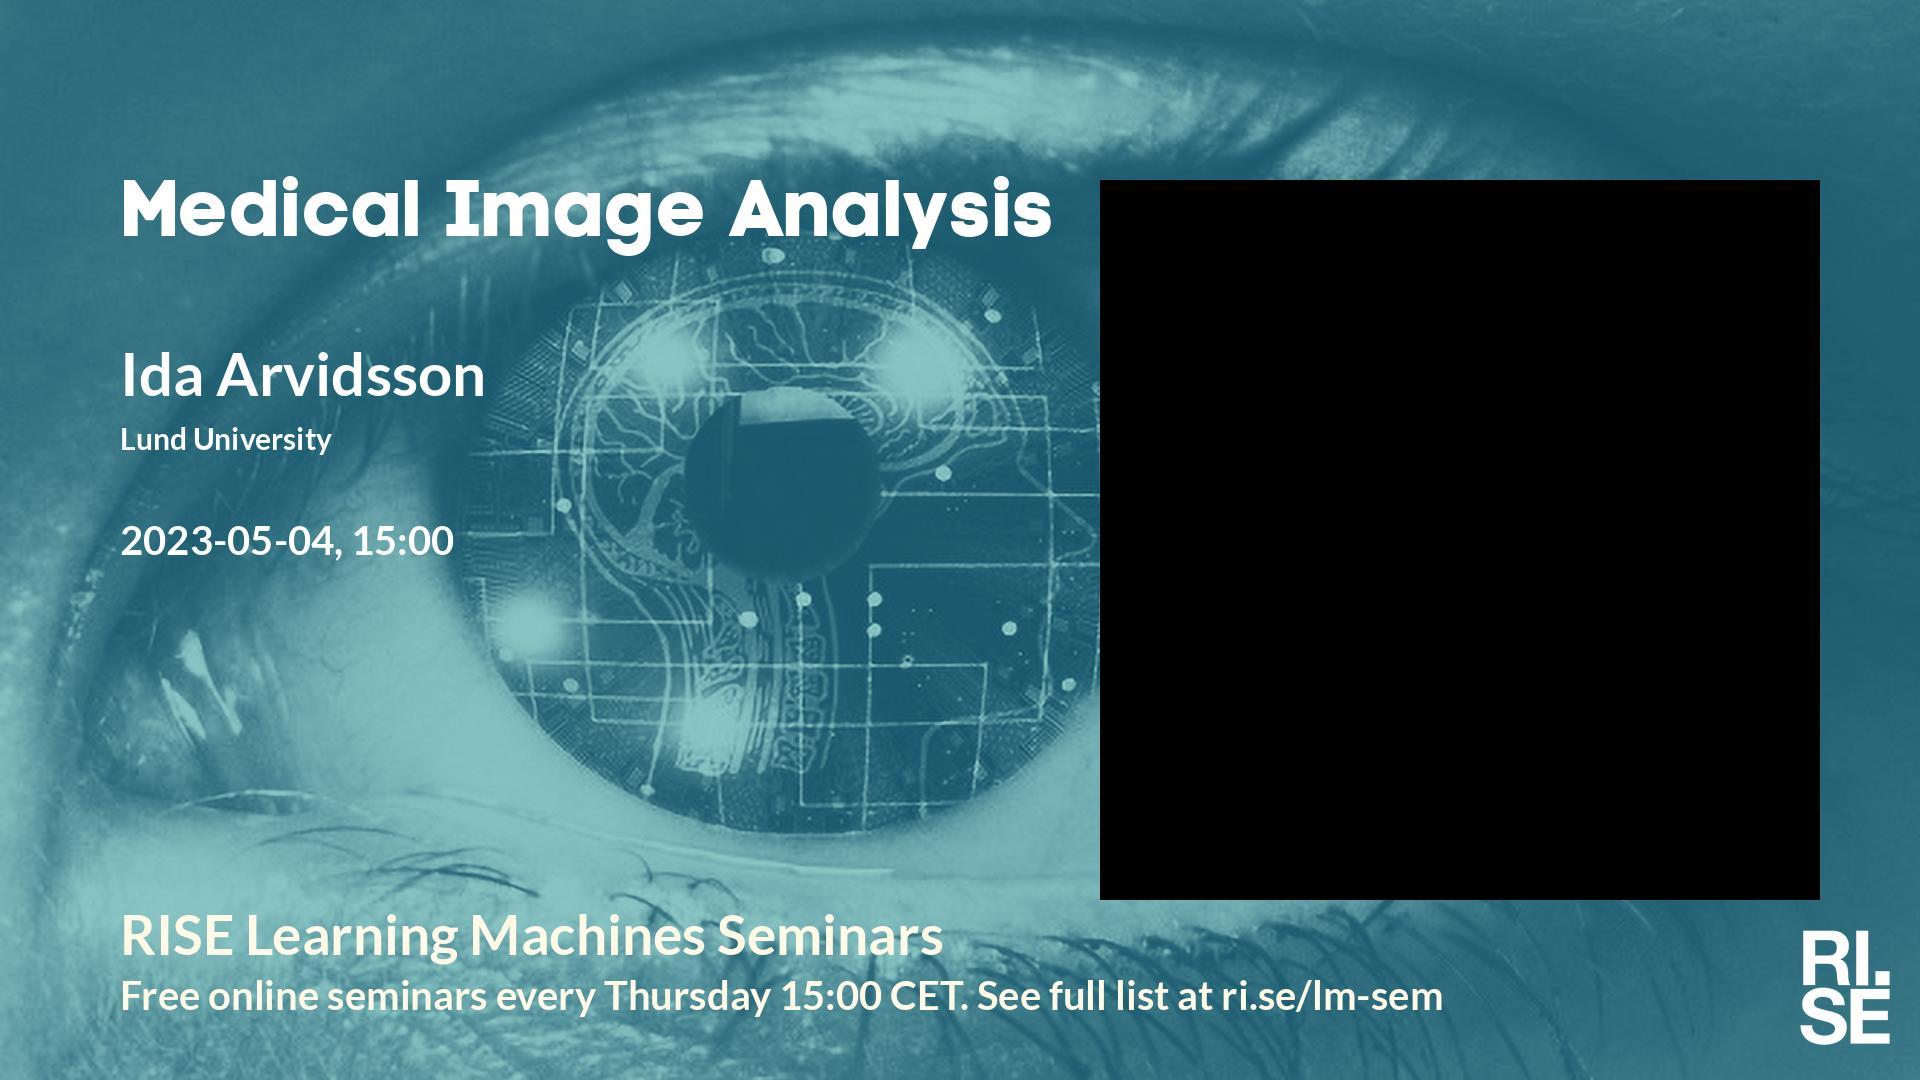
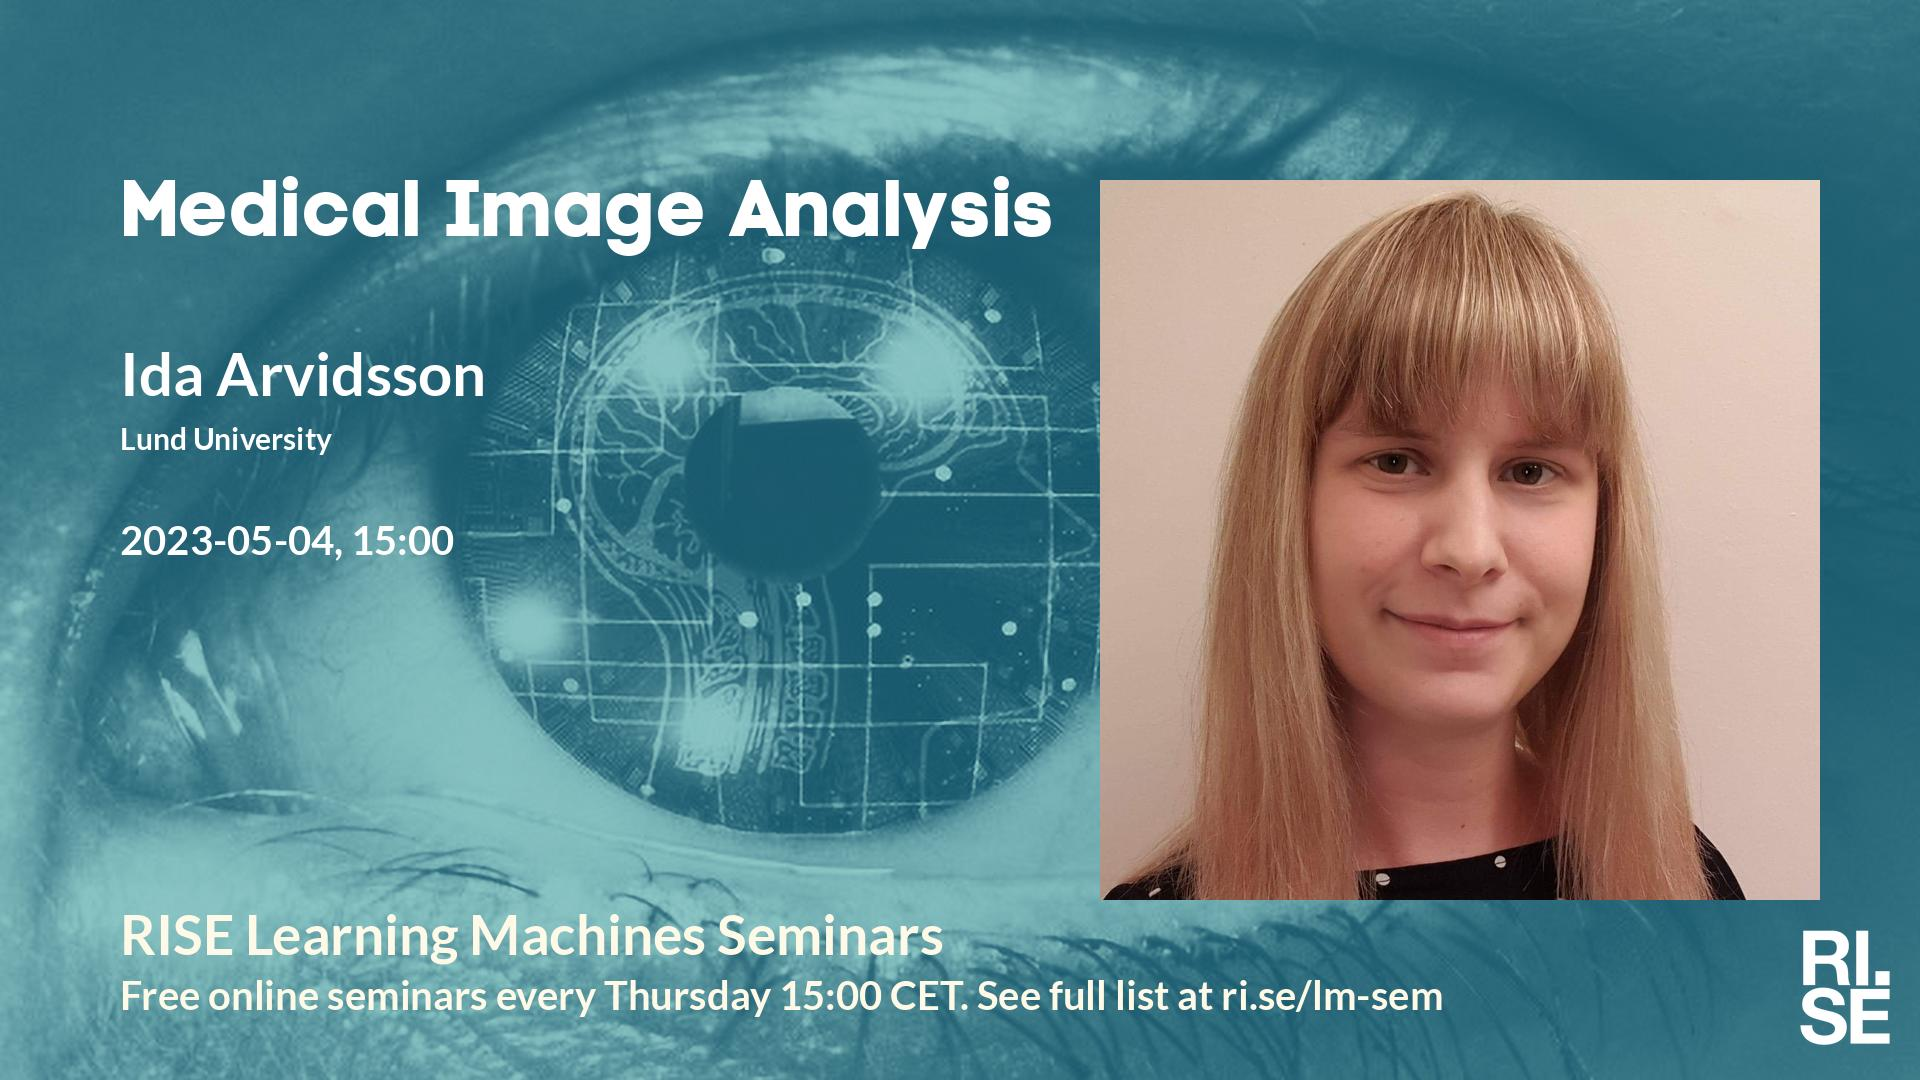
Updated plan on web site.

Changed region(s): [[0.5625, 0.1528, 0.9688, 0.8556]]

diff --git a/lm/index.md b/lm/index.md
@@ -12,7 +12,7 @@ table {border-collapse: collapse;}
 |  2023-04-13  |  [Elijah Cole, Caltech](2023-04-13.md)  |  [photo](photo-elijah-cole.jpg)  |  [social media ](social-media-elijah-cole.jpg)  |  [meeting backdrop ](meeting-backdrop-elijah-cole.jpg)  |  [youtube thumbnail ](youtube-thumbnail-elijah-cole.jpg)  |  STABP  |
 |  2023-04-20  |  [Rico Sennrich, University of Zurich](2023-04-20.md)  |  [photo](photo-rico-sennrich.jpg)  |  [social media ](social-media-rico-sennrich.jpg)  |  [meeting backdrop ](meeting-backdrop-rico-sennrich.jpg)  |  [youtube thumbnail ](youtube-thumbnail-rico-sennrich.jpg)  |  STABP  |
 |  2023-04-27  |  [Pontus Stenetorp, University College London (UCL)](2023-04-27.md)  |  [photo](photo-pontus-stenetorp.jpg)  |  [social media ](social-media-pontus-stenetorp.jpg)  |  [meeting backdrop ](meeting-backdrop-pontus-stenetorp.jpg)  |  [youtube thumbnail ](youtube-thumbnail-pontus-stenetorp.jpg)  |  STABP  |
-|  2023-05-04  |  [Ida Arvidsson, Lund University](2023-05-04.md)  |    |  [social media ](social-media-ida-arvidsson.jpg)  |  [meeting backdrop ](meeting-backdrop-ida-arvidsson.jpg)  |  [youtube thumbnail ](youtube-thumbnail-ida-arvidsson.jpg)  |  STAB~~P~~  |
+|  2023-05-04  |  [Ida Arvidsson, Lund University](2023-05-04.md)  |  [photo](photo-ida-arvidsson.jpg)  |  [social media ](social-media-ida-arvidsson.jpg)  |  [meeting backdrop ](meeting-backdrop-ida-arvidsson.jpg)  |  [youtube thumbnail ](youtube-thumbnail-ida-arvidsson.jpg)  |  STABP  |
 |  2023-05-11  |  [Jonathan Sauder, École polytechnique fédérale de Lausanne (EPFL)](2023-05-11.md)  |  [photo](photo-jonathan-sauder.jpg)  |  [social media ](social-media-jonathan-sauder.jpg)  |  [meeting backdrop ](meeting-backdrop-jonathan-sauder.jpg)  |  [youtube thumbnail ](youtube-thumbnail-jonathan-sauder.jpg)  |  STABP  |
 | <span style="color:red"> 2023-05-18 </span> | <span style="color:red"> Kristi-himmelsfärd </span> | <span style="color:red">  </span> | <span style="color:red">  </span> | <span style="color:red">  </span> | <span style="color:red">  </span> | <span style="color:red"> CANCELLED </span> |
 |  2023-05-25  |  [Puzhao Zhang, KTH](2023-05-25.md)  |  [photo](photo-puzhao-zhang.jpg)  |  [social media ](social-media-puzhao-zhang.jpg)  |  [meeting backdrop ](meeting-backdrop-puzhao-zhang.jpg)  |  [youtube thumbnail ](youtube-thumbnail-puzhao-zhang.jpg)  |  STABP  |
